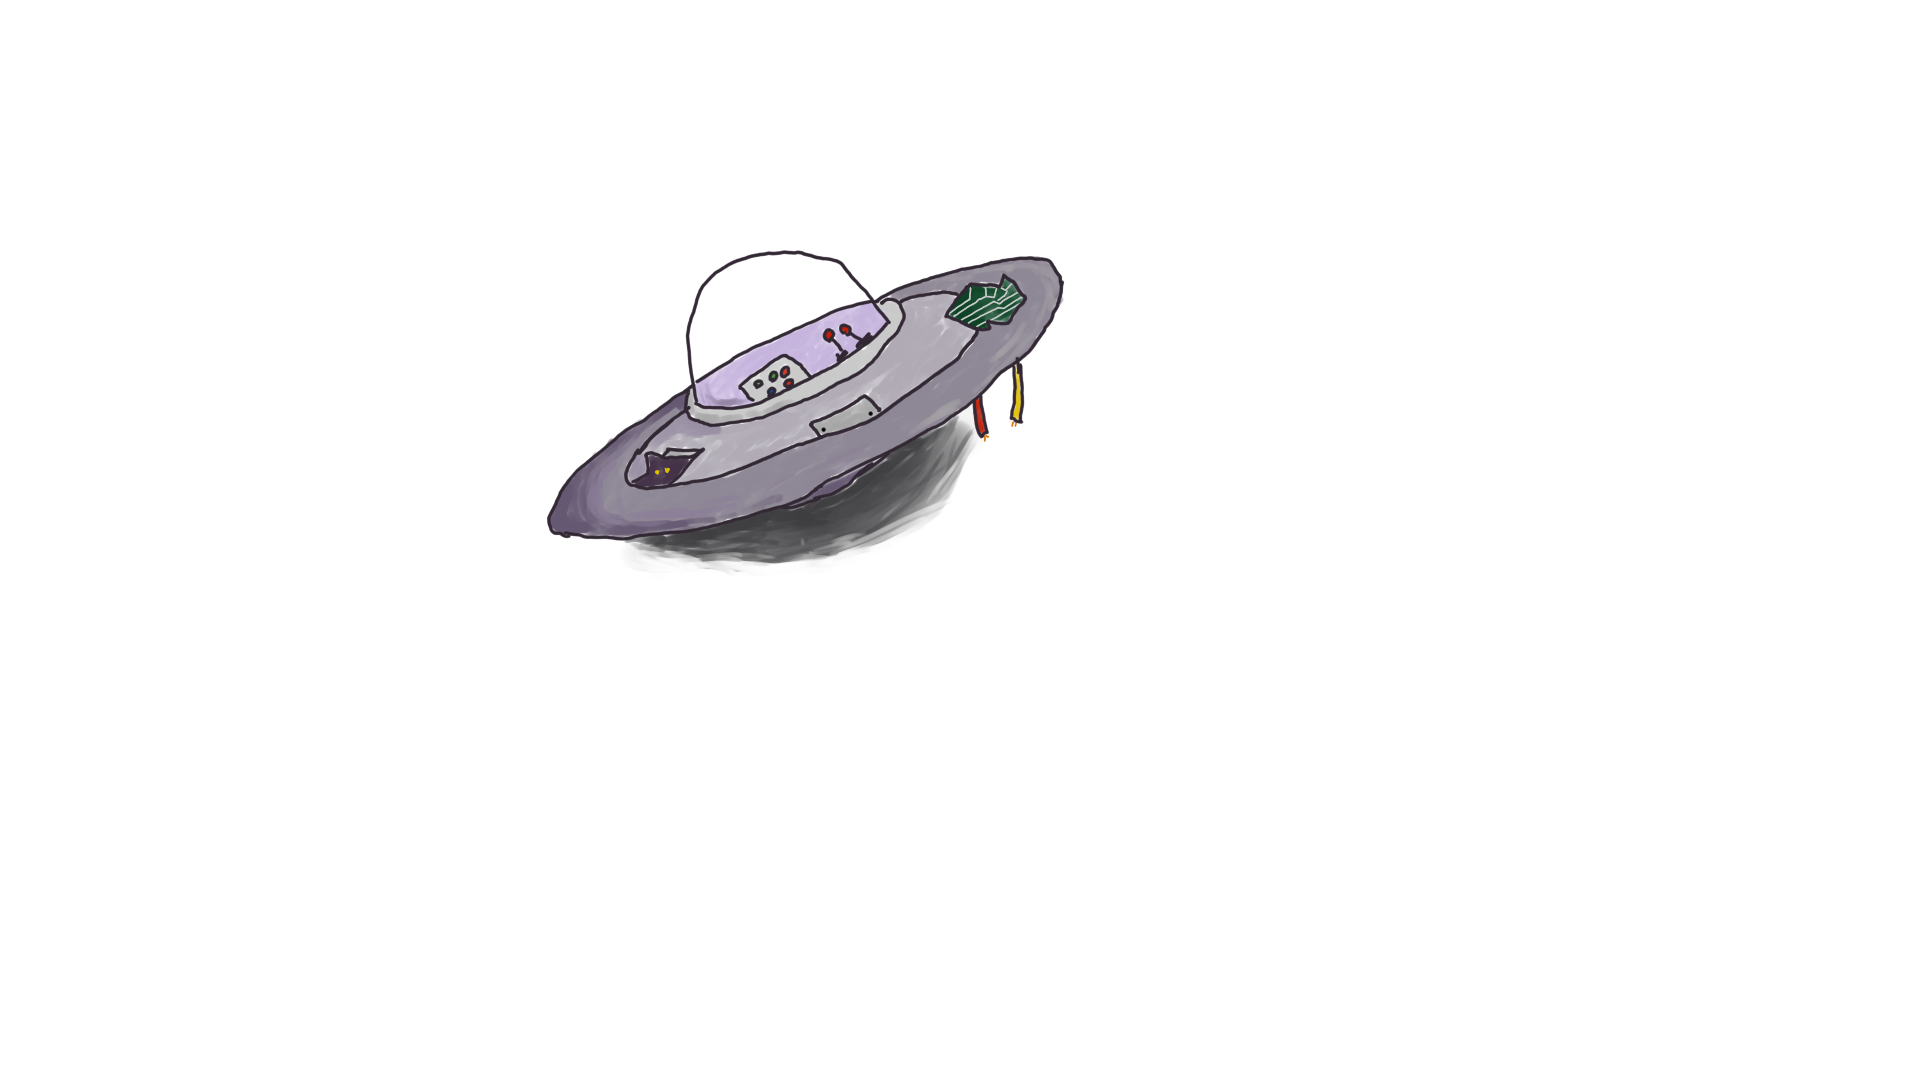
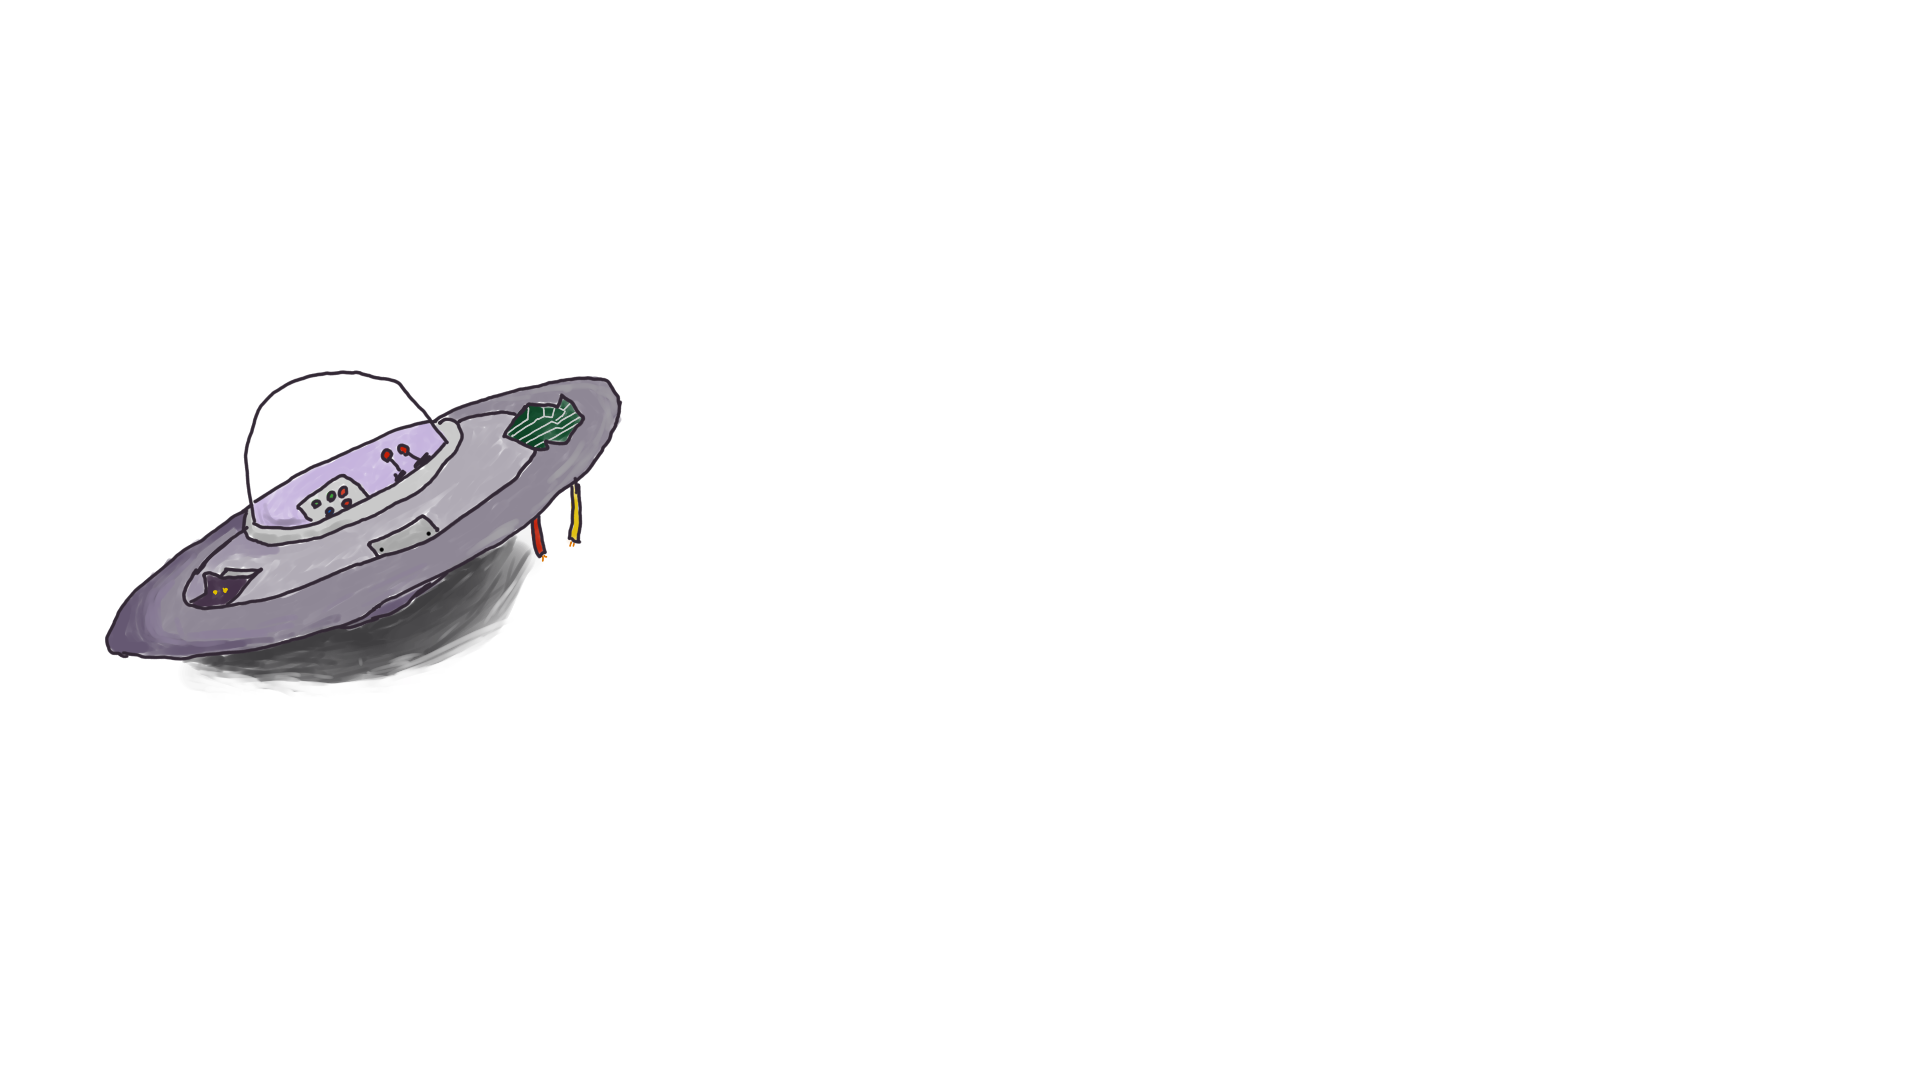
relative hitbox + moved ufo

Changed region(s): [[0.0312, 0.2139, 0.5625, 0.6417], [0.375, 0.2139, 0.4375, 0.2444], [0.1562, 0.3361, 0.2188, 0.3667]]

diff --git a/js/sketch.js b/js/sketch.js
@@ -37,7 +37,6 @@ const music = [
     }
 ];
 
-
 const sound = new Sound(music);
 
 function setup() {
@@ -59,7 +58,8 @@ function preload() {
     images = {
         menu_bg: loadImage("assets/images/menu.png"),
         cave_bg: loadImage("assets/images/cave.png"),
-        ufo_img: loadImage("assets/images/ufo.png")
+        ufo_img: loadImage("assets/images/ufo.png"),
+        ufo_hovered_img: loadImage("assets/images/ufo_hovered.png")
     };
 }
 
@@ -75,7 +75,6 @@ function draw() {
     } else {
         image(images.menu_bg, 0, 0, canvasWidth, canvasHeight);
         ellipse(200, 200, 10, 10);
-
     }
 
     dialougeManager.update();
@@ -128,7 +127,14 @@ function mousePressed() {
             debug_rects.push([x1, y1, width, height]);
             debug_dots = [];
 
-            console.log([x1, y1, width, height]);
+            console.log(
+                ...[
+                    x1 / canvasWidth,
+                    y1 / canvasHeight,
+                    width / canvasWidth,
+                    height / canvasHeight
+                ]
+            );
         }
     }
 

diff --git a/js/sprites/ufo.js b/js/sprites/ufo.js
@@ -1,8 +1,15 @@
 class Ufo extends Interactable {
     init() {
         this.image = "ufo_img";
-        this.hoveredImage = "ufo_img";
-        this.box = [203, 263, 228, 161];
+        this.hoveredImage = "ufo_hovered_img";
+        // this.box = [102, 360, 506, 314];
+
+        this.setBox(
+            0.09595959595959595,
+            0.4837837837837838,
+            0.3463203463203463,
+            0.4243243243243243
+        );
     }
 
     update() {

diff --git a/js/sprites/interactable.js b/js/sprites/interactable.js
@@ -48,4 +48,13 @@ class Interactable {
             this.jr.y <= y + h
         );
     }
+
+    setBox(x, y, w, h) {
+        this.box = [
+            x * canvasWidth,
+            y * canvasHeight,
+            w * canvasWidth,
+            h * canvasHeight
+        ];
+    }
 }
